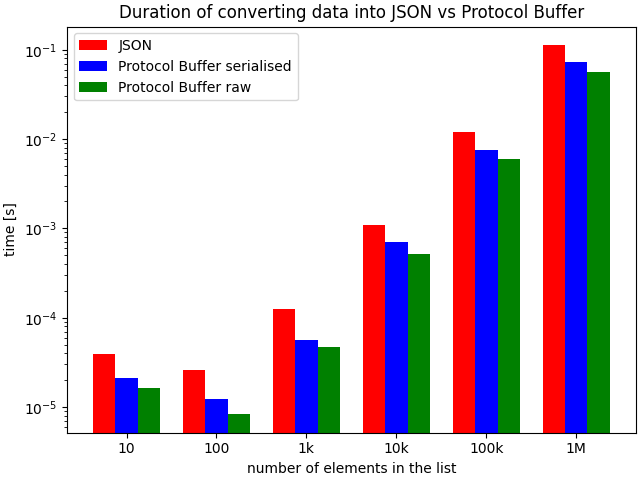
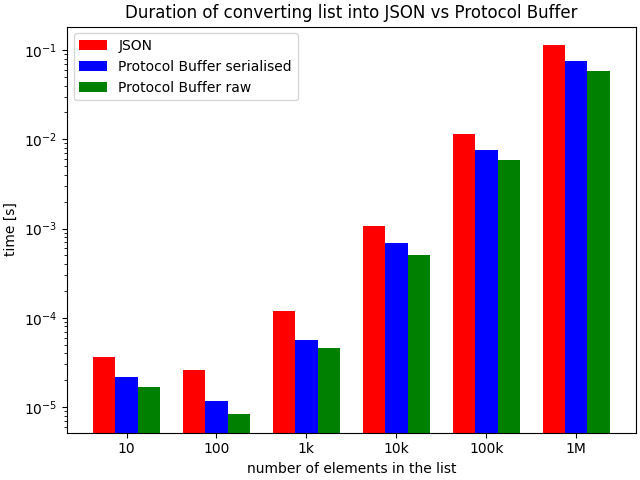
docs: dictionary short and long comparison (json and proto)

Changed region(s): [[0.1875, 0.0, 0.9062, 0.0625], [0.1562, 0.7188, 0.1875, 0.75]]

diff --git a/experiment.py b/experiment.py
@@ -31,6 +31,26 @@ def get_list(length: int):
     return result
 
 
+def get_dict(length: int, long_key: bool = False):
+    """
+    Generate dictionary of string, string with selected number of elements
+
+    :param long_key: boolean value whether to use long key
+    :param length: number of elements
+    :return: list
+    """
+    words = SENTENCE.split()
+    index = 0
+    result = dict()
+    for i in range(length):
+        key = str(i) + SENTENCE if long_key else str(i)
+        if index == len(words):
+            index = 0
+        result[key] = words[index]
+        index += 1
+    return result
+
+
 def get_proto_array(array: list):
     """
     Convert list of Strings to list Protocol Buffer
@@ -40,6 +60,18 @@ def get_proto_array(array: list):
     """
     result = experiment_pb2.Array()
     result.word.extend(array)
+    return result
+
+
+def get_proto_dictionary(data: dict):
+    """
+    Convert list of Strings to list Protocol Buffer
+
+    :param data: input
+    :return: Protocol Buffer Object
+    """
+    result = experiment_pb2.Dictionary()
+    result.data.update(data)
     return result
 
 
@@ -103,7 +135,7 @@ def measure_envelopes(json_envelopes, proto_envelopes, plot_name):
     plot_graph(plot_name, size, tick_label, x_ax)
 
 
-def measure_lists(json_data: list, proto_data: list, plot_name: str):
+def measure_size(json_data: list, proto_data: list, plot_name: str):
     """
     Measure size and plot lists (json & proto)
 
@@ -238,6 +270,36 @@ def list_generator():
     return json_val, proto_val, json_duration, proto_duration, proto_raw_duration
 
 
+def dict_generator(long_key: bool = False):
+    """
+    Generate dict of string with following number of elements [10, 100, 1000, 10000, 100000, 1000000]
+
+    :return: tuple where the first element is encoded in json and the other in Protocol Buffer
+    """
+    sizes = [10, 100, 1000, 10000, 100000, 1000000]
+    inputs = []
+    for size in sizes:
+        inputs.append(get_dict(size, long_key))
+    json_val = []
+    json_duration = []
+    proto_val = []
+    proto_raw_duration = []
+    proto_duration = []
+    for element in inputs:
+        start = time.time()
+        json_val.append(json.dumps(element))
+        json_duration.append(time.time() - start)
+
+        start = time.time()
+        proto_val.append(get_proto_dictionary(element))
+        proto_raw_duration.append(time.time() - start)
+        start = time.time()
+        proto_val[-1].SerializeToString()
+        proto_duration.append(time.time() - start + proto_raw_duration[-1])
+
+    return json_val, proto_val, json_duration, proto_duration, proto_raw_duration
+
+
 original_format = set_message_format('json')
 envelopes_json = generate_envelopes()
 set_message_format(original_format)
@@ -246,10 +308,14 @@ original_format = set_message_format('proto')
 envelopes_proto = generate_envelopes()
 set_message_format(original_format)
 
-json_list, proto_list, json_time, proto_time, proto_raw_time = list_generator()
-
 # measure_envelopes(envelopes_json, envelopes_proto, 'envelopes_json_vs_proto')
 
+# json_list, proto_list, json_time, proto_time, proto_raw_time = list_generator()
 # measure_lists(json_list, proto_list, 'list_json_vs_proto')
 # plot_grouped_graph(json_time, proto_time, proto_raw_time, 'time_list_json_vs_proto', 'time [s]',
-                   # 'Duration of converting list into JSON vs Protocol Buffer')
+#                    'Duration of converting list into JSON vs Protocol Buffer')
+
+json_dict, proto_dict, json_dict_time, proto_dict_time, proto_dict_raw_time = dict_generator()
+measure_size(json_dict, proto_dict, 'dict_short_json_vs_proto')
+plot_grouped_graph(json_dict_time, proto_dict_time, proto_dict_raw_time, 'time_dict_short_json_vs_proto', 'time [s]',
+                   'Duration of converting dictionary into JSON vs Protocol Buffer')

diff --git a/experiment_pb2.py b/experiment_pb2.py
@@ -13,7 +13,7 @@ _sym_db = _symbol_database.Default()
 
 
 
-DESCRIPTOR = _descriptor_pool.Default().AddSerializedFile(b'\n\x10\x65xperiment.proto\x12\nexperiment\"\x15\n\x05\x41rray\x12\x0c\n\x04word\x18\x01 \x03(\t')
+DESCRIPTOR = _descriptor_pool.Default().AddSerializedFile(b'\n\x10\x65xperiment.proto\x12\nexperiment\"\x15\n\x05\x41rray\x12\x0c\n\x04word\x18\x01 \x03(\t\"i\n\nDictionary\x12.\n\x04\x64\x61ta\x18\x01 \x03(\x0b\x32 .experiment.Dictionary.DataEntry\x1a+\n\tDataEntry\x12\x0b\n\x03key\x18\x01 \x01(\t\x12\r\n\x05value\x18\x02 \x01(\t:\x02\x38\x01')
 
 _globals = globals()
 _builder.BuildMessageAndEnumDescriptors(DESCRIPTOR, _globals)
@@ -21,6 +21,12 @@ _builder.BuildTopDescriptorsAndMessages(DESCRIPTOR, 'experiment_pb2', _globals)
 if _descriptor._USE_C_DESCRIPTORS == False:
 
   DESCRIPTOR._options = None
+  _DICTIONARY_DATAENTRY._options = None
+  _DICTIONARY_DATAENTRY._serialized_options = b'8\001'
   _globals['_ARRAY']._serialized_start=32
   _globals['_ARRAY']._serialized_end=53
+  _globals['_DICTIONARY']._serialized_start=55
+  _globals['_DICTIONARY']._serialized_end=160
+  _globals['_DICTIONARY_DATAENTRY']._serialized_start=117
+  _globals['_DICTIONARY_DATAENTRY']._serialized_end=160
 # @@protoc_insertion_point(module_scope)

diff --git a/README.md b/README.md
@@ -742,7 +742,7 @@ sudo docker run -it --rm --name rabbitmq -p 5672:5672 -p 15672:15672 rabbitmq:3.
 
 ![JSON vs Protocol Python list](resources/list_json_vs_proto.png)
 
-| List size |    JSON     | ProtocolBuffer Serialised | ProtocolBuffer Serialised | Reduction |
+| List size |    JSON     | ProtocolBuffer Serialised | ProtocolBuffer raw object | Reduction |
 |:----------|:-----------:|:-------------------------:|:-------------------------:|----------:|
 | 10        |    143 B    |           107 B           |           74 B            |   25-48 % |
 | 100       |   1 029 B   |           813 B           |           780 B           |   21-24 % |
@@ -756,7 +756,7 @@ sudo docker run -it --rm --name rabbitmq -p 5672:5672 -p 15672:15672 rabbitmq:3.
 
 ![JSON vs Protocol Python list](resources/time_list_json_vs_proto.png)
 
-| List size |    JSON    | ProtocolBuffer Serialised | ProtocolBuffer Serialised | Reduction |
+| List size |    JSON    | ProtocolBuffer Serialised | ProtocolBuffer raw object | Reduction |
 |:----------|:----------:|:-------------------------:|:-------------------------:|----------:|
 | 10        | 0.000 06 s |        0.000 04 s         |        0.000 04 s         |      33 % |
 | 100       | 0.000 04 s |        0.000 02 s         |        0.000 01 s         |   50-75 % |
@@ -765,4 +765,61 @@ sudo docker run -it --rm --name rabbitmq -p 5672:5672 -p 15672:15672 rabbitmq:3.
 | 100k      | 0.011 71 s |        0.007 63 s         |        0.005 85 s         |   35-50 % |
 | 1M        | 0.110 16 s |        0.074 59 s         |        0.057 35 s         |   32-48 % |
 
+### Python dictionary (short keys < 7 characters)
+
+#### Size
+
+![JSON vs Protocol Python list](resources/dict_short_json_vs_proto.png)
+
+| List size |     JSON     | ProtocolBuffer Serialised | ProtocolBuffer raw object | Reduction |
+|:----------|:------------:|:-------------------------:|:-------------------------:|----------:|
+| 10        |    193 B     |           157 B           |           124 B           |   19-36 % |
+| 100       |   1 619 B    |          1 403 B          |          1 370 B          |   13-15 % |
+| 1k        |   16 739 B   |         14 723 B          |         14 690 B          |      12 % |
+| 10k       |  176 939 B   |         156 923 B         |         156 890 B         |      11 % |
+| 100k      | 1 868 939 B  |        1 668 923 B        |        1 668 890 B        |      11 % |
+| 1M        | 19 688 939 B |       17 688 923 B        |       17 688 890 B        |      10 % |
+
+
+#### Time duration
+
+![JSON vs Protocol Python list](resources/time_dict_short_json_vs_proto.png)
+
+| List size |    JSON    | ProtocolBuffer Serialised | ProtocolBuffer raw object |     Reduction |
+|:----------|:----------:|:-------------------------:|:-------------------------:|--------------:|
+| 10        | 0.000 06 s |        0.000 09 s         |        0.000 08 s         | (-50)-(-33) % |
+| 100       | 0.000 06 s |        0.000 06 s         |        0.000 05 s         |       0-17  % |
+| 1k        | 0.000 33 s |        0.000 43 s         |        0.000 39 s         | (-30)-(-18) % |
+| 10k       | 0.031 13 s |        0.004 24 s         |        0.003 82 s         |       86-88 % |
+| 100k      | 0.064 69 s |        0.064 08 s         |        0.052 68 s         |        1-19 % |
+| 1M        | 0.675 56 s |        0.916 78 s         |        0.754 72 s         | (-36)-(-12) % |
+
+### Python dictionary (long keys > 70 characters)
+
+#### Size
+
+![JSON vs Protocol Python list](resources/dict_json_vs_proto.png)
+
+| List size |     JSON      | ProtocolBuffer Serialised | ProtocolBuffer raw object | Reduction |
+|:----------|:-------------:|:-------------------------:|:-------------------------:|----------:|
+| 10        |    1 543 B    |          1 527 B          |          1 494 B          |     1-3 % |
+| 100       |   15 119 B    |         15 103 B          |         15 070 B          |       0 % |
+| 1k        |   151 739 B   |         151 723 B         |         151 690 B         |       0 % |
+| 10k       |  1 526 939 B  |        1 526 923 B        |        1 526 890 B        |       0 % |
+| 100k      | 15 368 939 B  |       15 368 923 B        |       15 368 890 B        |       0 % |
+| 1M        | 154 688 929 B |       154 688 923 B       |       154 688 890 B       |       0 % |
+
+
+#### Time duration
+
+![JSON vs Protocol Python list](resources/time_dict_json_vs_proto.png)
+
+| List size |    JSON    | ProtocolBuffer Serialised | ProtocolBuffer raw object |     Reduction |
+|:----------|:----------:|:-------------------------:|:-------------------------:|--------------:|
+| 10        | 0.000 06 s |        0.000 09 s         |        0.000 08 s         | (-50)-(-33) % |
+| 100       | 0.000 10 s |        0.000 07 s         |        0.000 05 s         |      30-50  % |
+| 1k        | 0.000 86 s |        0.000 56 s         |        0.000 46 s         |       35-47 % |
+| 10k       | 0.034 73 s |        0.010 48 s         |        0.006 68 s         |       70-80 % |
+| 100k      | 0.127 81 s |        0.126 80 s         |        0.087 48 s         |        1-32 % |
+| 1M        | 1.336 67 s |        1.665 21 s         |        1.132 30 s         |    (-25)-15 % |
 
